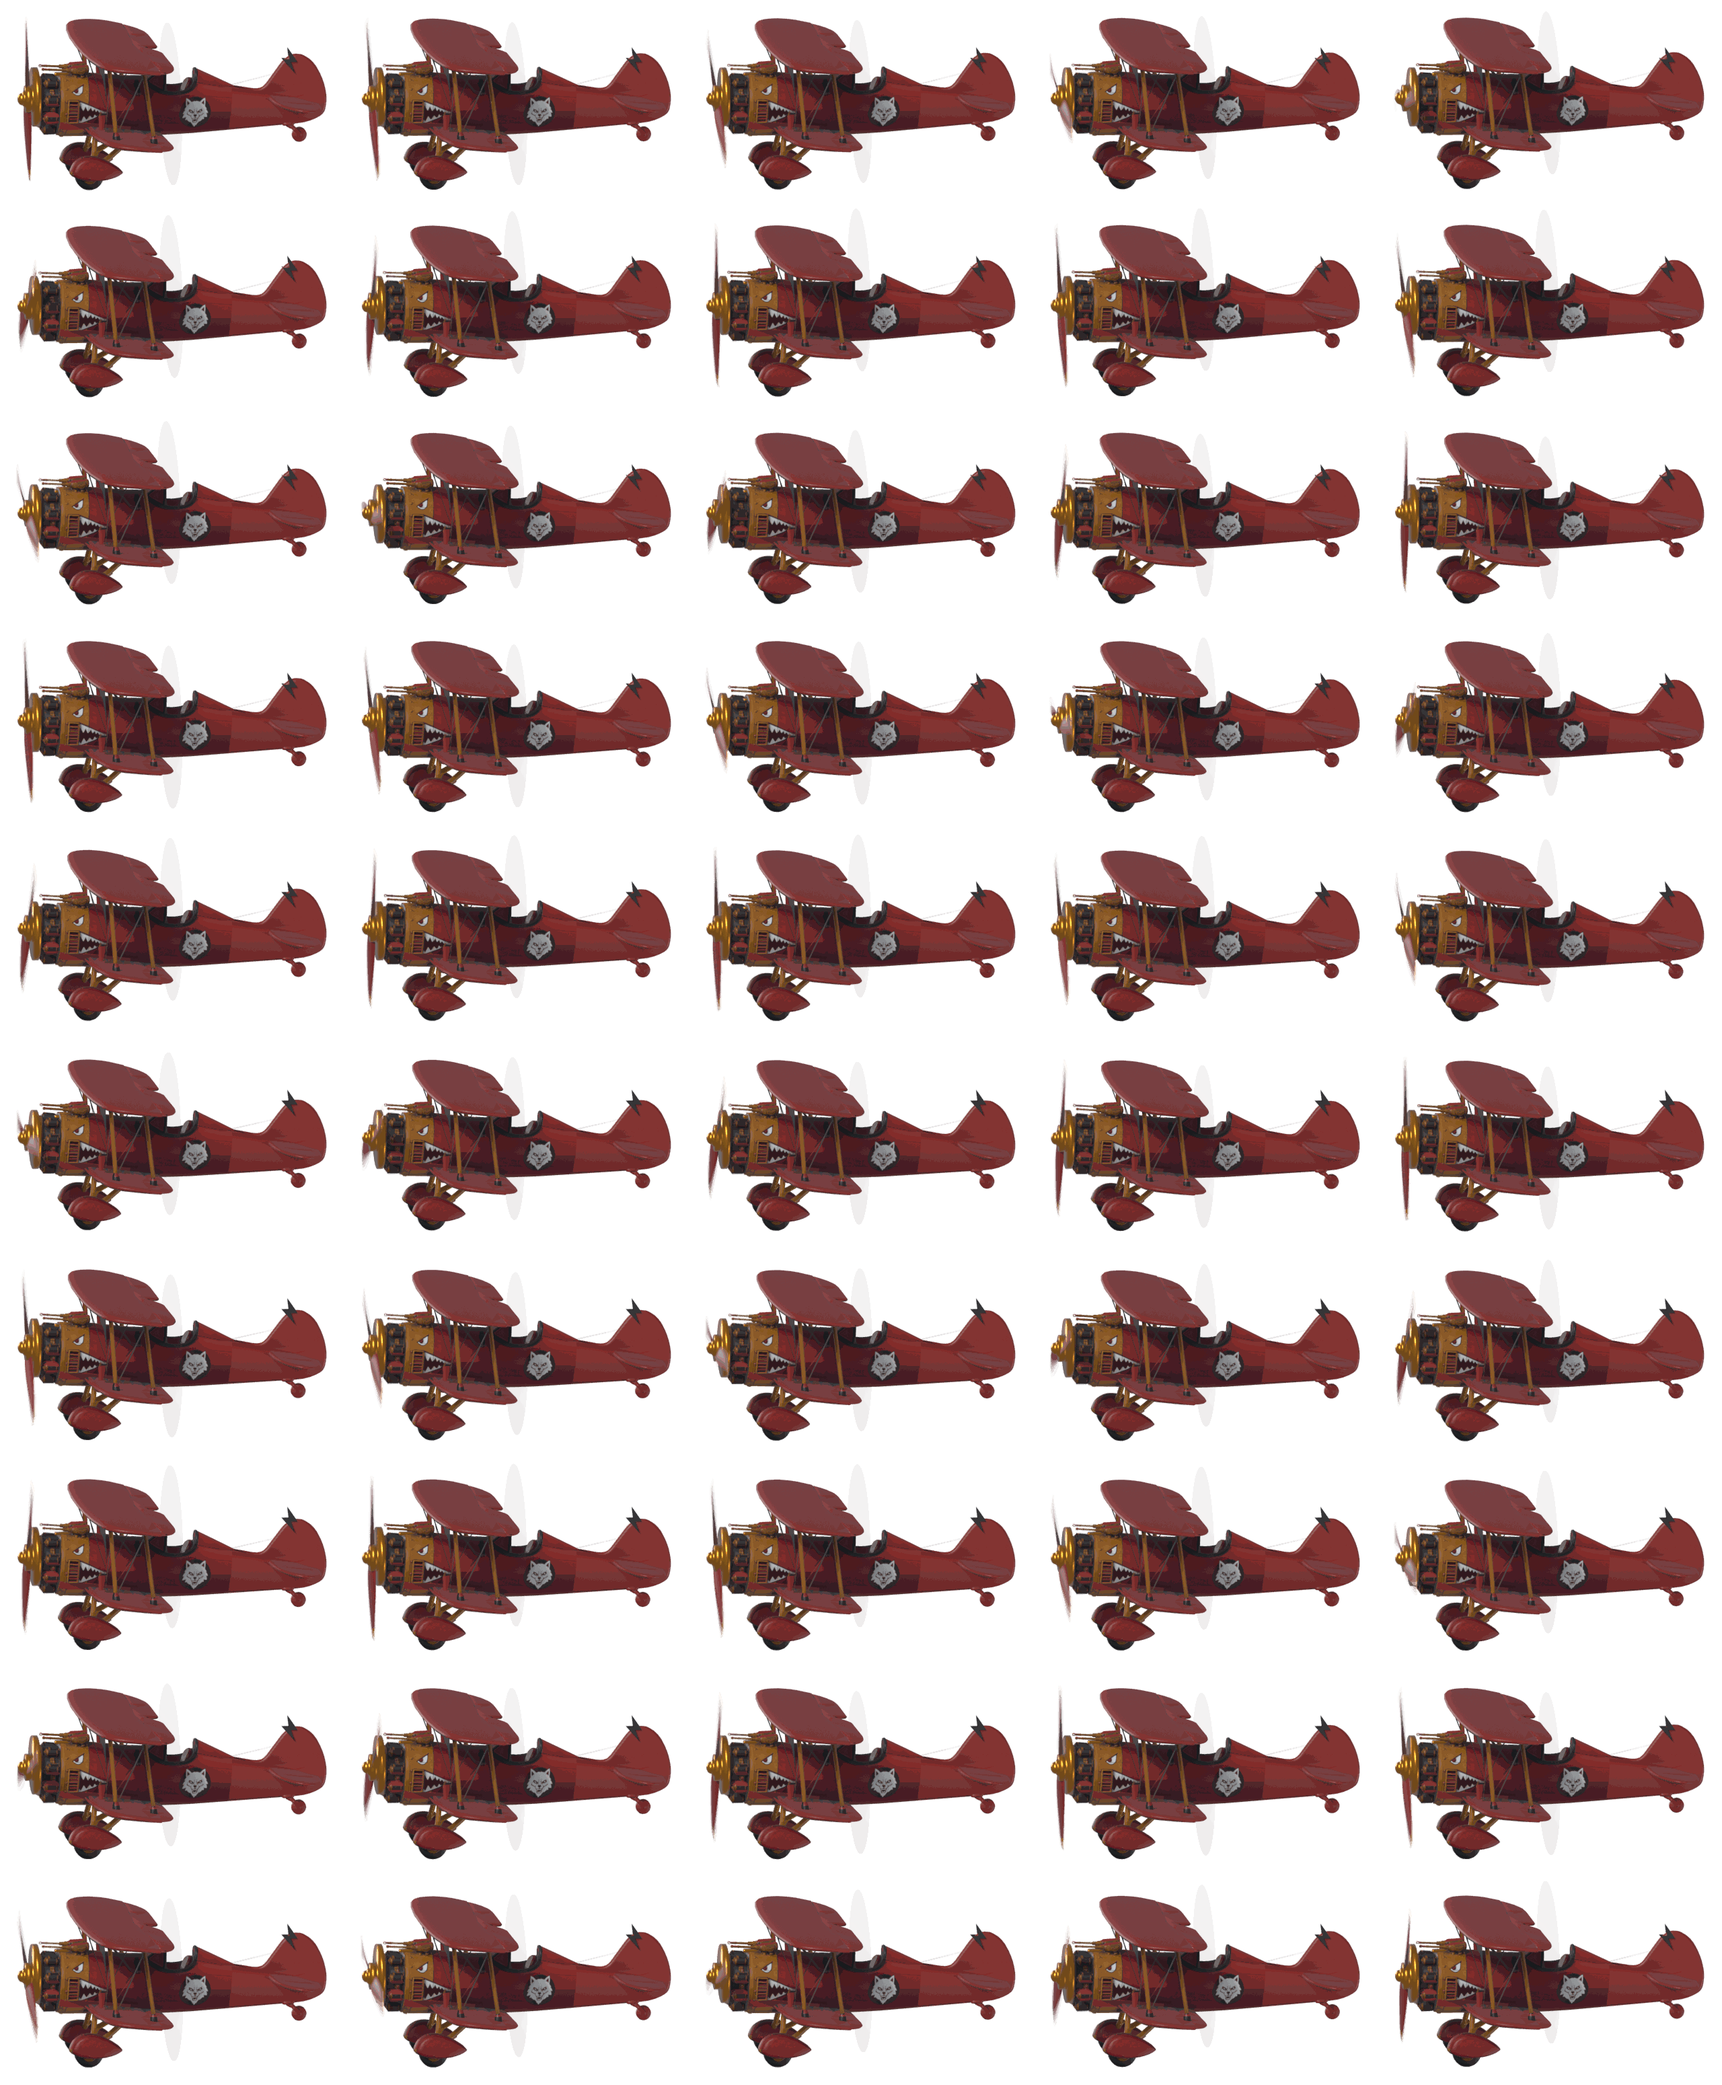
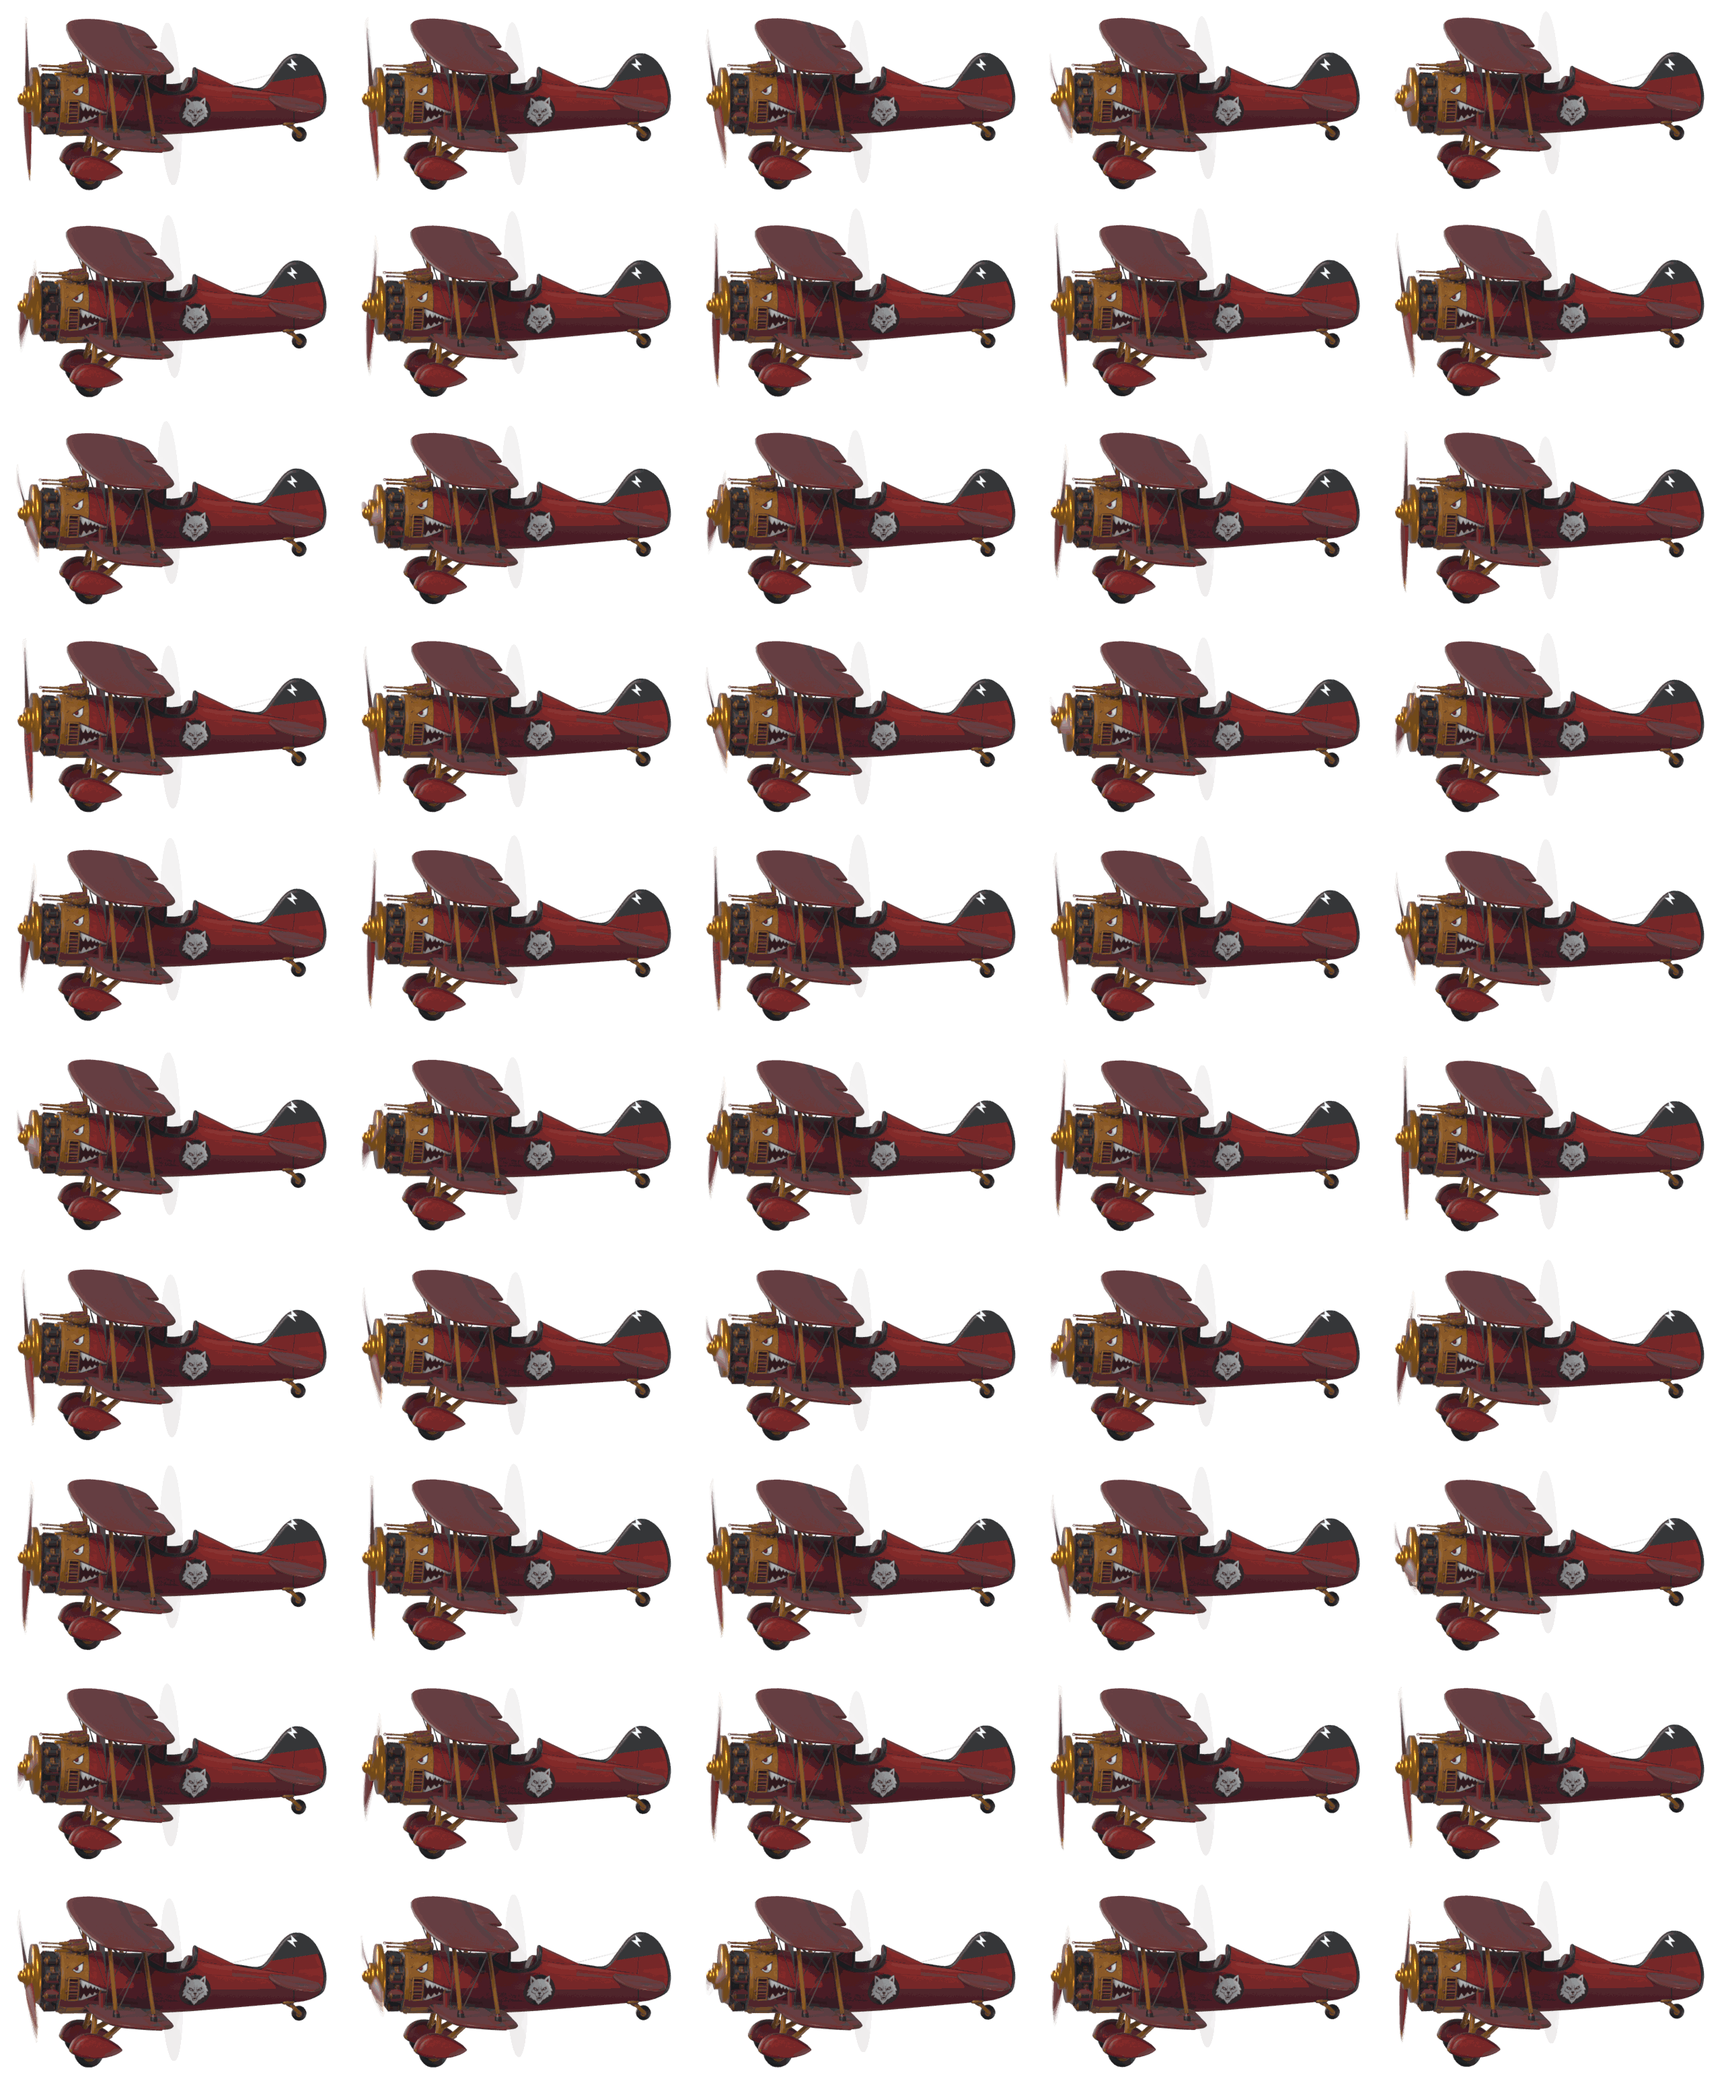
fix: fit the fin bolt inside the fin, retune squadron two
The lightning decal overshot the top of the fin and floated above the tail —
its box now sits strictly inside the fin outline.

Squadron two had its whole tail repainted, which came out lighter than the
Tripo fuselage texture and left a visible seam across the aft fuselage, and a
black bolt on a crimson fin read as nothing at all. It now keeps the textured
fuselage and tailplane, blacks out the fin alone and wears the same white bolt
as squadron one, so the two squadrons differ by wing colour and how much of
the tail is black.

diff --git a/tools/3d/run_plane.py b/tools/3d/run_plane.py
@@ -8,15 +8,18 @@ pp = imp("plane_pipeline"); lv = imp("lib_view")
 CFG = {
     "sov": dict(src=r"C:\Users\serge\Downloads\vintage airplane 3d model (1).glb",
                 wood=(141, 47, 14), gold=(186, 114, 16), brass=(186, 114, 16), wing=(11, 65, 150),
-                rim=(176, 106, 14), tail=None, bolt=False, bolt_rgb=(255, 255, 255)),
+                rim=(176, 106, 14), tail=None, tail_mode="full", bolt=False, bolt_rgb=(255, 255, 255)),
     "jkl": dict(src=r"C:\Users\serge\Downloads\red biplane 3d model (3).glb",
                 wood=(143, 33, 25), gold=(215, 140, 40), brass=(198, 132, 42), wing=(37, 37, 38),
-                rim=(26, 26, 27), tail=(34, 34, 35), bolt=True, bolt_rgb=(246, 246, 244)),
+                rim=(26, 26, 27), tail=(34, 34, 35), tail_mode="full", bolt=True, bolt_rgb=(246, 246, 244)),
     # Second Jackal squadron: same airframe, inverted scheme so the two read
     # apart in a dogfight — crimson wings and tail, black edging, black bolt.
     "jkl2": dict(src=r"C:\Users\serge\Downloads\red biplane 3d model (3).glb",
-                 wood=(120, 28, 22), gold=(196, 122, 34), brass=(186, 122, 40), wing=(122, 34, 27),
-                 rim=(30, 30, 31), tail=(118, 32, 25), bolt=True, bolt_rgb=(24, 24, 26)),
+                 wood=(120, 28, 22), gold=(196, 122, 34), brass=(186, 122, 40), wing=(96, 30, 25),
+                 # tail left on the Tripo texture: a painted one sat lighter than the
+                 # fuselage and the seam showed
+                 rim=(28, 28, 29), tail=(34, 34, 35), tail_mode="fin",
+                 bolt=True, bolt_rgb=(246, 246, 244)),
 }
 TAG = "%TAG%"
 c = CFG[TAG]
@@ -61,7 +64,7 @@ moved, mount = pp.seat_guns(o, m, GUN["x0"], GUN["x1"], GUN["ylim"], GUN["zmin"]
                             GUN["zmax"], GUN["dz"], GUN["mount"], m_brass)
 R = m["Rprop"] * 0.98
 piv, parts = pp.assemble_prop(m, R, m_wood, m_gold, m_brass, tag="PROP")
-tailn = pp.paint_tail(o, m, c["tail"], name="TailBlack_" + TAG) if c["tail"] else 0
+tailn = pp.paint_tail(o, m, c["tail"], name="TailBlack_" + TAG, mode=c["tail_mode"]) if c["tail"] else 0
 bolt = pp.add_fin_bolt(o, m, color=c["bolt_rgb"], name="FinBolt_" + TAG) if c["bolt"] else []
 rig, stats, hinges = pp.build_rig(o, m)
 piv.parent = None

diff --git a/tools/3d/plane_pipeline.py b/tools/3d/plane_pipeline.py
@@ -653,7 +653,7 @@ def _split_off_side(o, box, side, name):
 
 
 # ---------------------------------------------------------------- faction tail
-def paint_tail(o, m, color, name="TailBlack", aft_frac=0.72):
+def paint_tail(o, m, color, name="TailBlack", aft_frac=0.72, mode="full"):
     """Jackal reference: fin, tailplane and the aft fuselage are black."""
     me = o.data
     mt = mat(name, rgb(color), 0.50, 0.0)
@@ -668,10 +668,11 @@ def paint_tail(o, m, color, name="TailBlack", aft_frac=0.72):
     for p in me.polygons:
         c = p.center
         tail = False
-        if c.x < aft and abs(c.y) < 0.22 * hs:
-            tail = True                                    # aft fuselage
-        if c.x < aft + 0.6 and abs(c.z - htz) < 0.36 and 0.08 * hts < abs(c.y) <= 1.15 * hts:
-            tail = True                                    # tailplane
+        if mode == "full":
+            if c.x < aft and abs(c.y) < 0.22 * hs:
+                tail = True                                # aft fuselage
+            if c.x < aft + 0.6 and abs(c.z - htz) < 0.36 and 0.08 * hts < abs(c.y) <= 1.15 * hts:
+                tail = True                                # tailplane
         if c.x < aft + 0.6 and abs(c.y) < 0.10 * hs and c.z > az + 0.45:
             tail = True                                    # fin
         if tail:
@@ -688,8 +689,10 @@ def add_fin_bolt(o, m, color=(246, 246, 244), name="FinBolt"):
            and fz0 - 0.05 <= c.z <= fz1 + 0.20 and abs(c.y) < 0.14 * m["halfspan"]]
     half_y = max((abs(c.y) for c in fin), default=0.06)
 
-    x0, x1 = hinge - 0.02, fn_le + 0.02
-    z0, z1 = fz0 - 0.02, fz1 + 0.26
+    # Keep the decal strictly inside the fin outline - it used to overshoot the
+    # top of the fin and float above the tail.
+    x0, x1 = hinge + 0.03, fn_le - 0.16
+    z0, z1 = fz0 + 0.08, fz1 - 0.07
     w, h = (x1 - x0), (z1 - z0)
     # unit lightning bolt, nose of the plane is +X so the bolt leans forward
     UV = [(0.60, 1.00), (0.16, 0.46), (0.46, 0.46), (0.26, 0.00),
